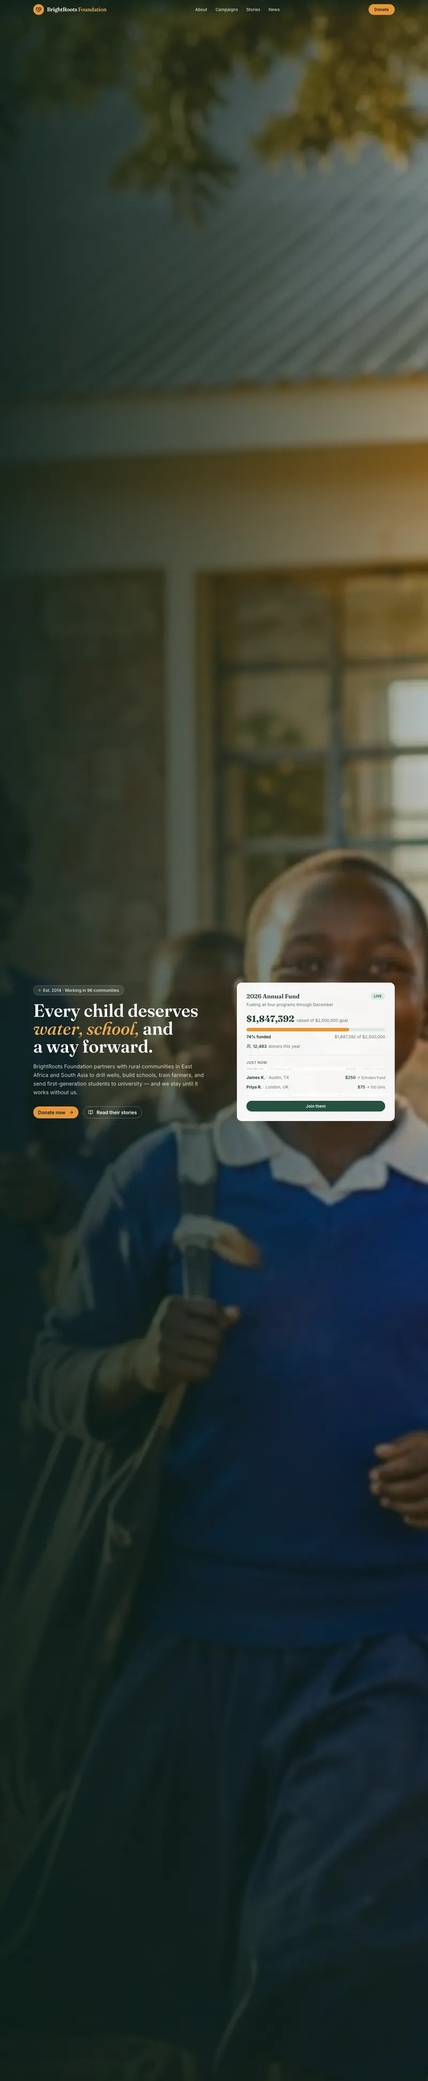
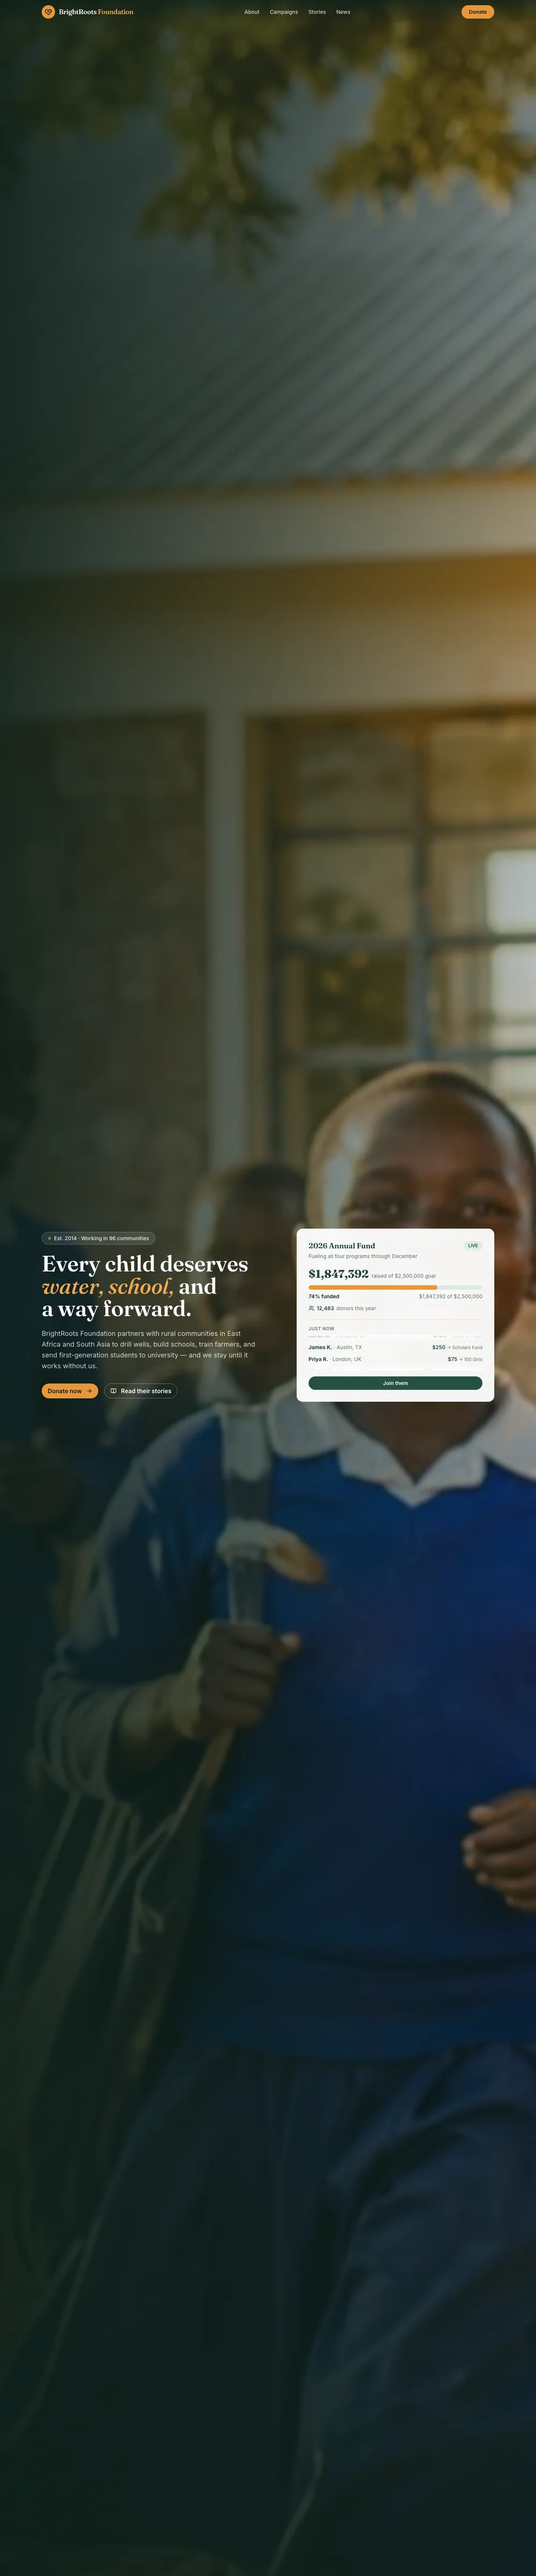
marketing/templates: dial in hero focus + sharper encodes
The photo-hero cards (Nonprofit, Skincare, Travel) were landing at the wrong
focus depth — too low, stuck on the blurred hero photo / product closeup.
Retuned so each card lands on the headline+content band:
  nonprofit 0.28, skincare 0.28, travel 0.36.
Re-encoded these three at 1000px (from 800) for crisper text at card size.

diff --git a/marketing/templates/index.html b/marketing/templates/index.html
@@ -2132,15 +2132,15 @@ var CATALOG = [
   { name: 'Events Guide',           abbr: 'EG', color: 'salmon', tag: 'websites', desc: 'A local what\'s-on guide with day-by-day listings and editor\'s picks.', shot: 'images/townhall-events.webp' },
   { name: 'Market Guide',           abbr: 'MG', color: 'amber', tag: 'websites', desc: 'Farmers-market directory with schedules, regions, and vendor detail.', shot: 'images/harvest-guide.webp' },
   { name: 'Venture Capital',        abbr: 'VC', color: 'blue', tag: 'websites', desc: 'A conviction-led investment firm site with thesis and portfolio.', shot: 'images/meridian-capital.webp' },
-  { name: 'Nonprofit Site',         abbr: 'NP', color: 'mint', tag: 'websites', desc: 'Foundation site for programmes, impact reporting, and donations.', shot: 'images/nonprofit-website.webp', focus: 0.35 },
+  { name: 'Nonprofit Site',         abbr: 'NP', color: 'mint', tag: 'websites', desc: 'Foundation site for programmes, impact reporting, and donations.', shot: 'images/nonprofit-website.webp', focus: 0.28 },
   { name: 'Space Tourism',          abbr: 'ST', color: 'purple', tag: 'websites', desc: 'Cinematic booking site for commercial spaceflight itineraries.', shot: 'images/astralis-space-tourism.webp' },
   { name: 'Studio Portfolio',       abbr: 'SP', color: 'purple', tag: 'portfolio', desc: 'A stark black-canvas portfolio for a design or film studio.', shot: 'images/noir-agency.webp' },
   { name: 'Meditation App',         abbr: 'MA', color: 'mint', tag: 'apps', desc: 'A calm practice app with sessions, pricing, and onboarding.', shot: 'images/still-meditation.webp' },
-  { name: 'Skincare Brand',         abbr: 'SK', color: 'salmon', tag: 'ecommerce', desc: 'Minimal beauty storefront with product ritual and shade detail.', shot: 'images/lumiere-skin.webp', focus: 0.18 },
+  { name: 'Skincare Brand',         abbr: 'SK', color: 'salmon', tag: 'ecommerce', desc: 'Minimal beauty storefront with product ritual and shade detail.', shot: 'images/lumiere-skin.webp', focus: 0.28 },
   { name: 'Recipe Finder',          abbr: 'RF', color: 'salmon', tag: 'apps', desc: 'Search recipes by what\'s already in your fridge, with filters.', shot: 'images/forkful-recipe.webp' },
   { name: 'Design Magazine',        abbr: 'DM', color: 'amber', tag: 'editorial', desc: 'Long-form design and architecture criticism with photo essays.', shot: 'images/meridian-journal.webp' },
   { name: 'Urban Journal',          abbr: 'UJ', color: 'salmon', tag: 'editorial', desc: 'City-focused reporting, features, and photo-essay collections.', shot: 'images/gridline-journal.webp' },
-  { name: 'Travel Journal',         abbr: 'TJ', color: 'purple', tag: 'editorial', desc: 'Slow-travel destinations, itineraries, and atelier stories.', shot: 'images/maison-voyage.webp', focus: 0.35 },
+  { name: 'Travel Journal',         abbr: 'TJ', color: 'purple', tag: 'editorial', desc: 'Slow-travel destinations, itineraries, and atelier stories.', shot: 'images/maison-voyage.webp', focus: 0.36 },
 ];
 
 /* Thin right-arrow — slides + brightens on card hover */

diff --git a/marketing/templates/detail/index.html b/marketing/templates/detail/index.html
@@ -789,15 +789,15 @@ var CATALOG = [
   { name: 'Events Guide',           tag: 'websites', desc: 'A local what\'s-on guide with day-by-day listings and editor\'s picks.', shot: '../images/townhall-events.webp' },
   { name: 'Market Guide',           tag: 'websites', desc: 'Farmers-market directory with schedules, regions, and vendor detail.', shot: '../images/harvest-guide.webp' },
   { name: 'Venture Capital',        tag: 'websites', desc: 'A conviction-led investment firm site with thesis and portfolio.', shot: '../images/meridian-capital.webp' },
-  { name: 'Nonprofit Site',         tag: 'websites', desc: 'Foundation site for programmes, impact reporting, and donations.', shot: '../images/nonprofit-website.webp', focus: 0.35 },
+  { name: 'Nonprofit Site',         tag: 'websites', desc: 'Foundation site for programmes, impact reporting, and donations.', shot: '../images/nonprofit-website.webp', focus: 0.28 },
   { name: 'Space Tourism',          tag: 'websites', desc: 'Cinematic booking site for commercial spaceflight itineraries.', shot: '../images/astralis-space-tourism.webp' },
   { name: 'Studio Portfolio',       tag: 'portfolio', desc: 'A stark black-canvas portfolio for a design or film studio.', shot: '../images/noir-agency.webp' },
   { name: 'Meditation App',         tag: 'apps', desc: 'A calm practice app with sessions, pricing, and onboarding.', shot: '../images/still-meditation.webp' },
-  { name: 'Skincare Brand',         tag: 'ecommerce', desc: 'Minimal beauty storefront with product ritual and shade detail.', shot: '../images/lumiere-skin.webp', focus: 0.18 },
+  { name: 'Skincare Brand',         tag: 'ecommerce', desc: 'Minimal beauty storefront with product ritual and shade detail.', shot: '../images/lumiere-skin.webp', focus: 0.28 },
   { name: 'Recipe Finder',          tag: 'apps', desc: 'Search recipes by what\'s already in your fridge, with filters.', shot: '../images/forkful-recipe.webp' },
   { name: 'Design Magazine',        tag: 'editorial', desc: 'Long-form design and architecture criticism with photo essays.', shot: '../images/meridian-journal.webp' },
   { name: 'Urban Journal',          tag: 'editorial', desc: 'City-focused reporting, features, and photo-essay collections.', shot: '../images/gridline-journal.webp' },
-  { name: 'Travel Journal',         tag: 'editorial', desc: 'Slow-travel destinations, itineraries, and atelier stories.', shot: '../images/maison-voyage.webp', focus: 0.35 },
+  { name: 'Travel Journal',         tag: 'editorial', desc: 'Slow-travel destinations, itineraries, and atelier stories.', shot: '../images/maison-voyage.webp', focus: 0.36 },
 ];
 
 var TAG_LABELS = {
